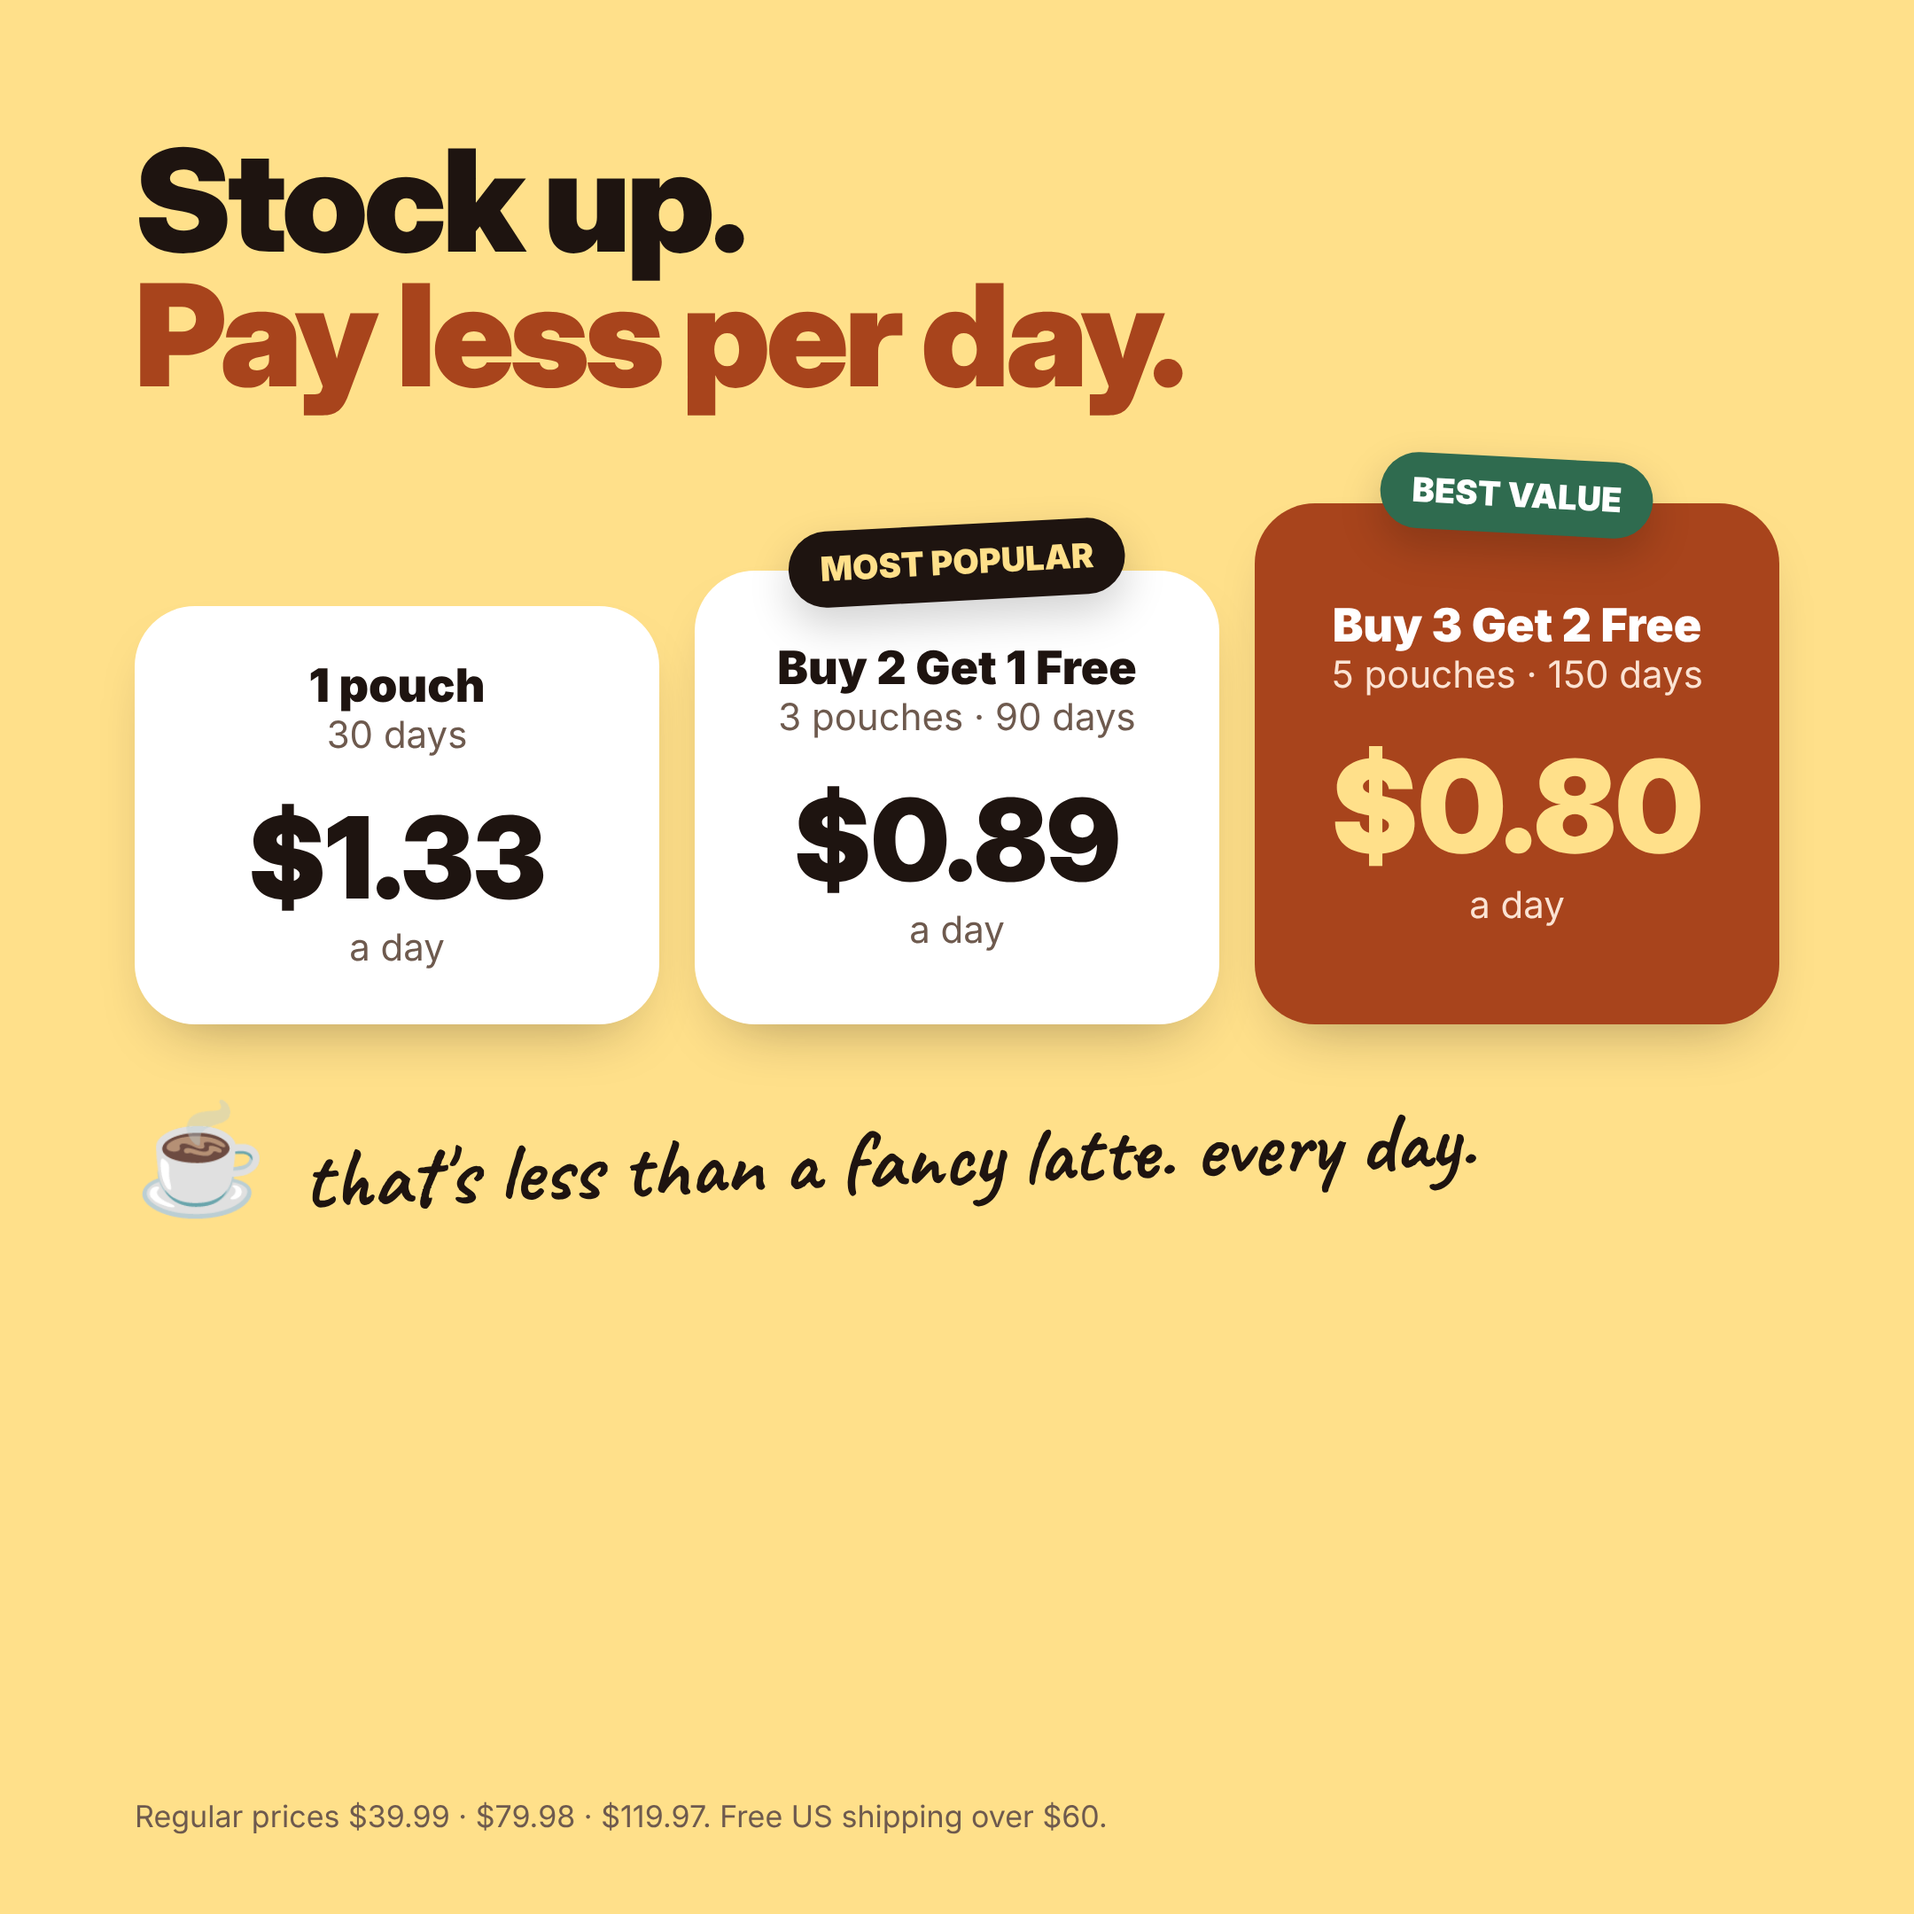
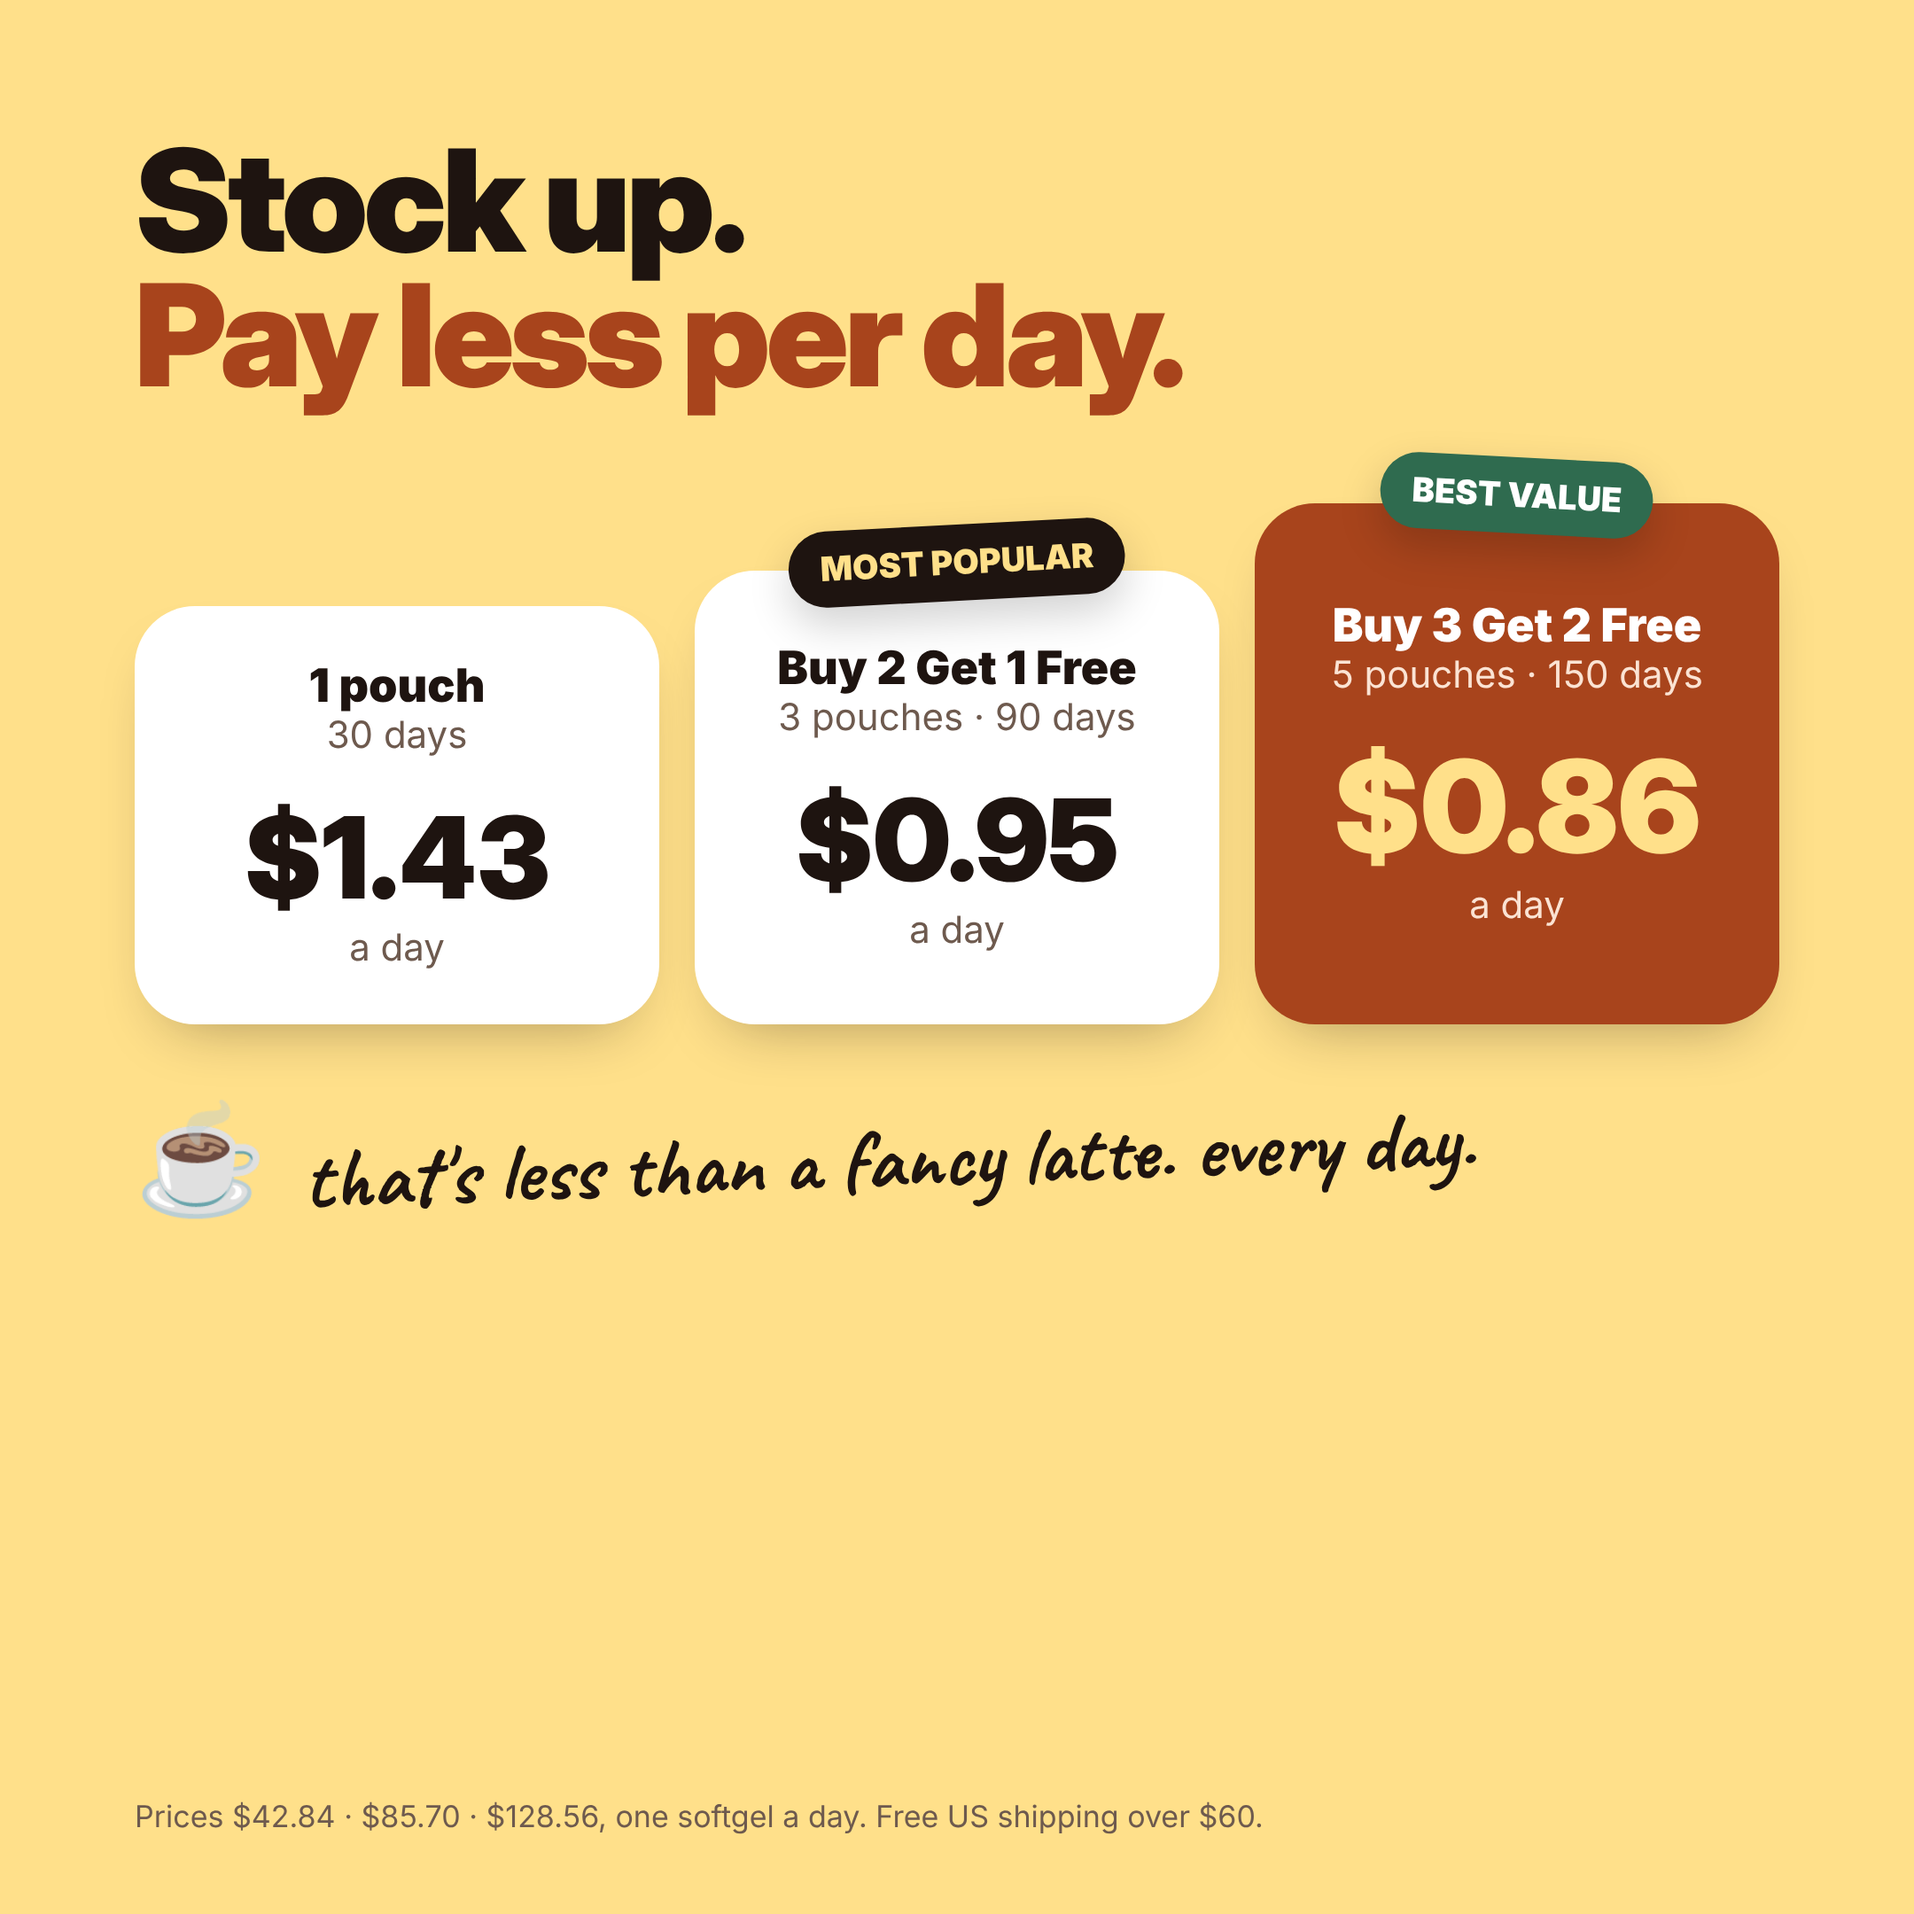
Match competitor offer; carousel uploaded; slide 9 prices
Claude-Session: https://claude.ai/code/session_01WXdKv4Lmy6DFabBeRvSUZr

diff --git a/ceylon-cinnamon/carousel/fun.html b/ceylon-cinnamon/carousel/fun.html
@@ -167,14 +167,14 @@ h1{font-family:"Inter Display",Inter;font-weight:900;letter-spacing:-.03em;line-
 <div class="s" id="s9" style="background:var(--butter)">
   <h1 style="font-size:80px">Stock up. <br><span style="color:var(--cin)">Pay less per day.</span></h1>
   <div style="display:flex;gap:20px;margin-top:56px;align-items:flex-end">
-    <div class="card" style="flex:1;text-align:center;padding:30px 20px"><div style="font-size:26px;font-weight:900">1 pouch</div><div style="font-size:21px;color:var(--muted)">30 days</div><div style="font-family:'Inter Display';font-weight:900;font-size:64px;margin-top:18px">$1.33</div><div style="font-size:21px;color:var(--muted)">a day</div></div>
-    <div class="card" style="flex:1;text-align:center;padding:40px 20px;position:relative"><div class="sticker" style="left:50%;top:-26px;transform:translateX(-50%) rotate(-3deg);background:var(--ink);color:var(--butter);font-size:19px;padding:10px 18px">MOST POPULAR</div><div style="font-size:26px;font-weight:900">Buy 2 Get 1 Free</div><div style="font-size:21px;color:var(--muted)">3 pouches · 90 days</div><div style="font-family:'Inter Display';font-weight:900;font-size:64px;margin-top:18px">$0.89</div><div style="font-size:21px;color:var(--muted)">a day</div></div>
-    <div class="card" style="flex:1;text-align:center;padding:54px 20px;background:var(--cin);color:#fff;position:relative"><div class="sticker" style="left:50%;top:-26px;transform:translateX(-50%) rotate(3deg);background:var(--leaf);color:#fff;font-size:19px;padding:10px 18px">BEST VALUE</div><div style="font-size:26px;font-weight:900">Buy 3 Get 2 Free</div><div style="font-size:21px;color:#FBE3D3">5 pouches · 150 days</div><div style="font-family:'Inter Display';font-weight:900;font-size:72px;margin-top:18px;color:var(--butter)">$0.80</div><div style="font-size:21px;color:#FBE3D3">a day</div></div>
+    <div class="card" style="flex:1;text-align:center;padding:30px 20px"><div style="font-size:26px;font-weight:900">1 pouch</div><div style="font-size:21px;color:var(--muted)">30 days</div><div style="font-family:'Inter Display';font-weight:900;font-size:64px;margin-top:18px">$1.43</div><div style="font-size:21px;color:var(--muted)">a day</div></div>
+    <div class="card" style="flex:1;text-align:center;padding:40px 20px;position:relative"><div class="sticker" style="left:50%;top:-26px;transform:translateX(-50%) rotate(-3deg);background:var(--ink);color:var(--butter);font-size:19px;padding:10px 18px">MOST POPULAR</div><div style="font-size:26px;font-weight:900">Buy 2 Get 1 Free</div><div style="font-size:21px;color:var(--muted)">3 pouches · 90 days</div><div style="font-family:'Inter Display';font-weight:900;font-size:64px;margin-top:18px">$0.95</div><div style="font-size:21px;color:var(--muted)">a day</div></div>
+    <div class="card" style="flex:1;text-align:center;padding:54px 20px;background:var(--cin);color:#fff;position:relative"><div class="sticker" style="left:50%;top:-26px;transform:translateX(-50%) rotate(3deg);background:var(--leaf);color:#fff;font-size:19px;padding:10px 18px">BEST VALUE</div><div style="font-size:26px;font-weight:900">Buy 3 Get 2 Free</div><div style="font-size:21px;color:#FBE3D3">5 pouches · 150 days</div><div style="font-family:'Inter Display';font-weight:900;font-size:72px;margin-top:18px;color:var(--butter)">$0.86</div><div style="font-size:21px;color:#FBE3D3">a day</div></div>
   </div>
   <div style="display:flex;align-items:center;gap:20px;margin-top:40px">
     <div style="font-size:60px">☕</div><div class="hand" style="font-size:48px;transform:rotate(-2deg)">that's less than a fancy latte. every day.</div>
   </div>
-  <p style="position:absolute;left:76px;bottom:44px;font-size:17px;color:var(--muted)">Regular prices $39.99 · $79.98 · $119.97. Free US shipping over $60.</p>
+  <p style="position:absolute;left:76px;bottom:44px;font-size:17px;color:var(--muted)">Prices $42.84 · $85.70 · $128.56, one softgel a day. Free US shipping over $60.</p>
 </div>
 
 <!-- 10 GUARANTEE -->

diff --git a/ceylon-cinnamon/CLAUDE.md b/ceylon-cinnamon/CLAUDE.md
@@ -187,3 +187,7 @@ n/v = not publicly verifiable from the pages fetched. Berberine-first brands whe
 - Support email: info@cinnora.co (founder, Nov 17). Use in founder P.S., policies, footer, Shopify sender email.
 - Carousel v2: slide 2 = Supplement Facts panel built from the category spec (1 softgel, 30/pouch, 600mg 12:1 Cinnamomum verum, MCT oil, gelatin softgel). Shell sub-ingredients (glycerin, water) are typical, not verified: check against supplier label. Slide 6 = life before/after (no health outcomes). Pouch count = 30 (research: Camp A spec).
 - Carousel v3 (fun): source carousel/fun.html + render-fun.js (Caveat handwriting font, pouch-cut.png). Slides: hook, softgel annotated, label annotated (own design, not a copy), Cassia vs Ceylon, 12 quills = 1 softgel, benefits*, before/after life, 90 days, offer per day, guarantee. Pouch mockup "300 SOFTGELS" + "LAB FREE" are covered with stickers.
+- Nov 17: founder published again. LIVE = 156626911301, DRAFT = 156629663813 (copy of live). Stale 156625403973 renamed "DELETE ME — old".
+- Offer = Metabolae's exactly "until further notice": 1 pouch $42.84 (cmp $59.99) · Buy 2 Get 1 $85.70 (cmp $179.97) · Buy 3 Get 2 $128.56 (cmp $299.95). Black Friday automatic discounts (25%/30% + free shipping) still scheduled on top.
+- DRAFT: founder letter in "we" voice + info@cinnora.co; per-day and BF prices now round instead of truncating.
+- Product media: 10 carousel slides uploaded and placed first, then pouch-on-table. Old pouch, MCT "powder" softgel image and 2 stray images (NurtureNova, mushroom) still at the end, awaiting founder OK to delete.
